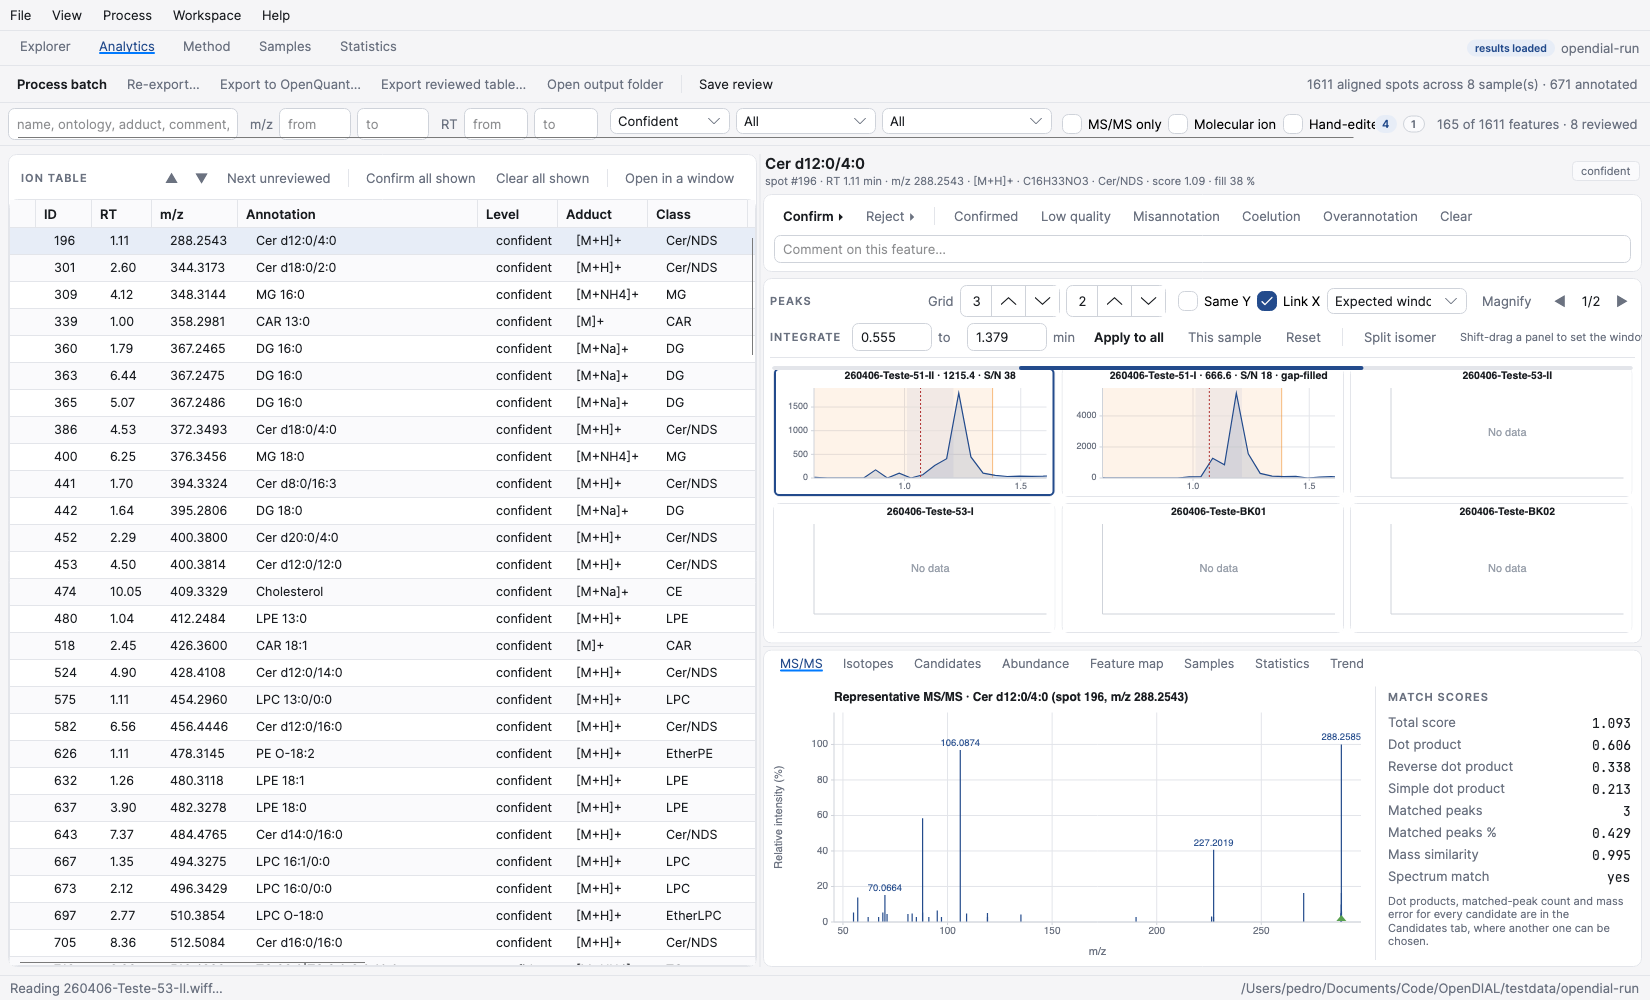
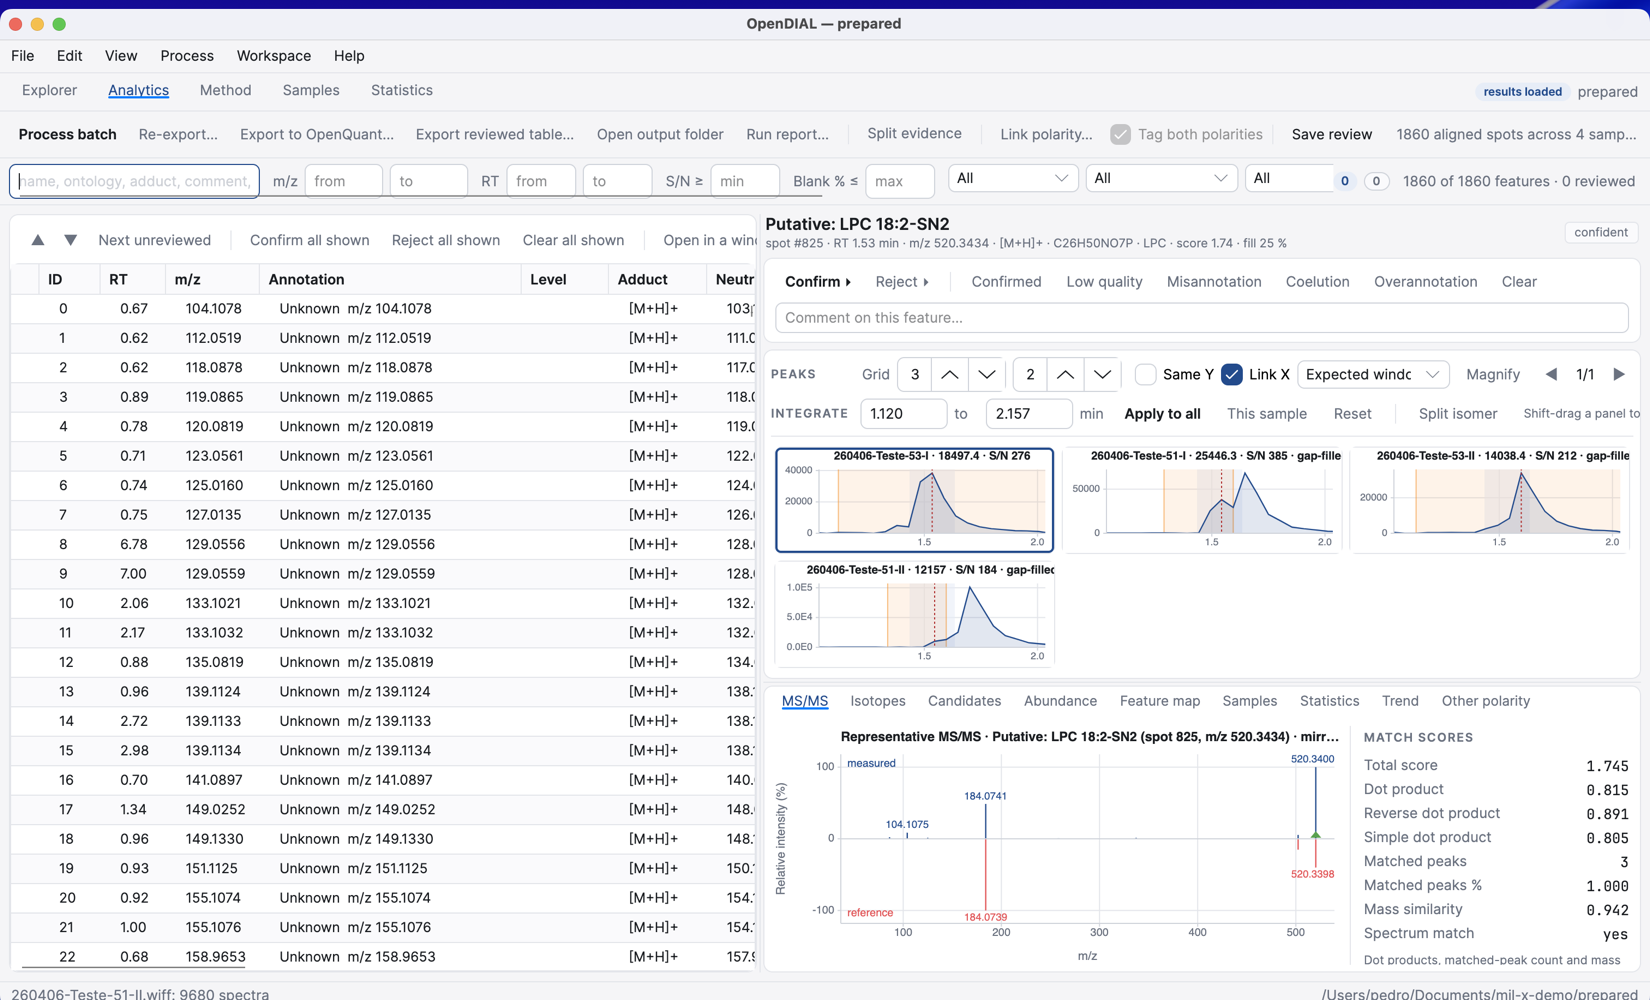
The two stale screenshots, retaken on the interface that exists
review-ion-table.png showed an ion table without the Neutral column, without
the polarity controls, without Run report, and with data from a run that has
not existed for two versions. samples.png was older still: no Polarity column,
no Statistics workspace in the tab bar at all.

Both are retaken from the demo batch, on a feature that matches a library
record, so the MS/MS panel shows the mirror and the match scores rather than an
empty spectrum. Same 1650x1000 frame as before, so the manual's layout does not
move.

analytics.png is gone and the README points at review-ion-table.png instead. It
was the same workspace photographed twice, which is two files to keep current
and one that always falls behind. It had fallen behind by about four versions.

diff --git a/opendial/README.md b/opendial/README.md
@@ -56,7 +56,7 @@ supported, but Finder cannot bind a folder to an application, so open those from
 
 ![explorer](docs/images/explorer.png)
 
-![analytics](docs/images/analytics.png)
+![analytics](docs/images/review-ion-table.png)
 
 A TripleTOF `.wiff` opened natively in the Explorer:
 
